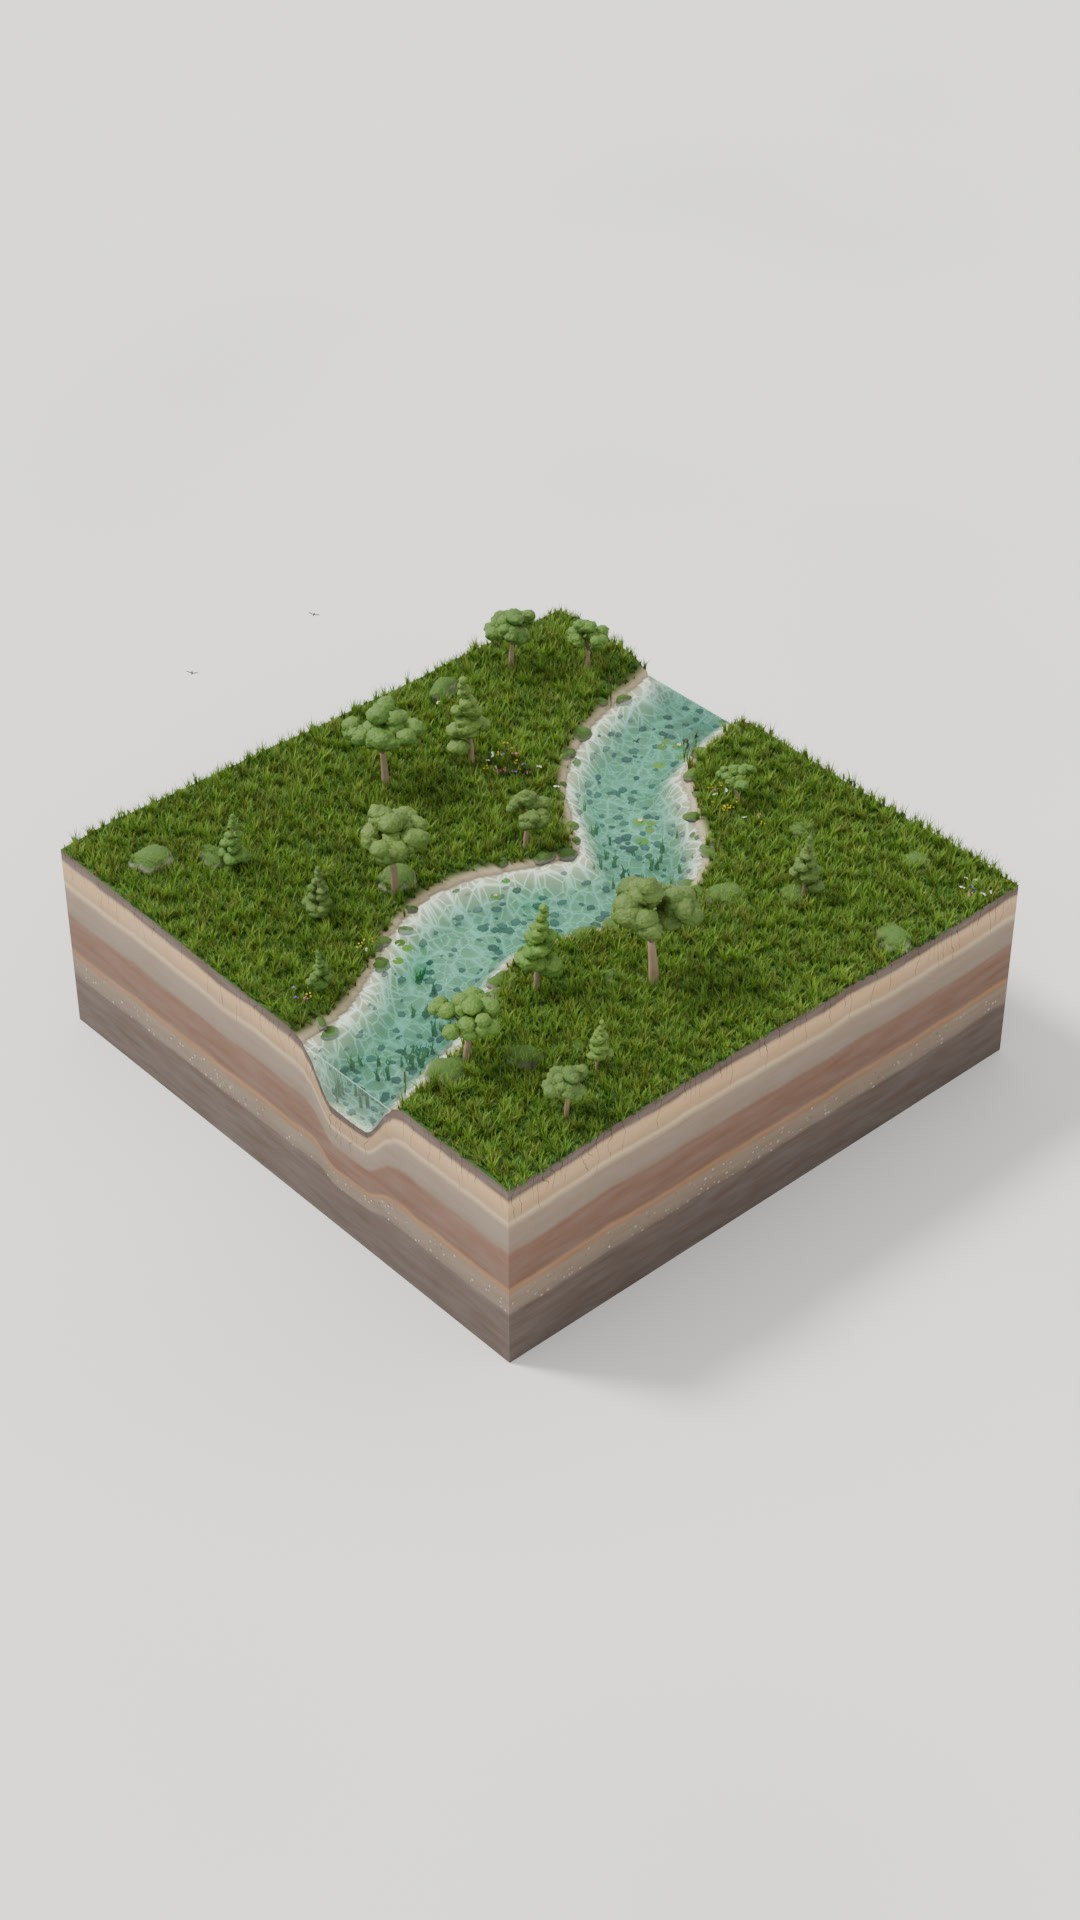
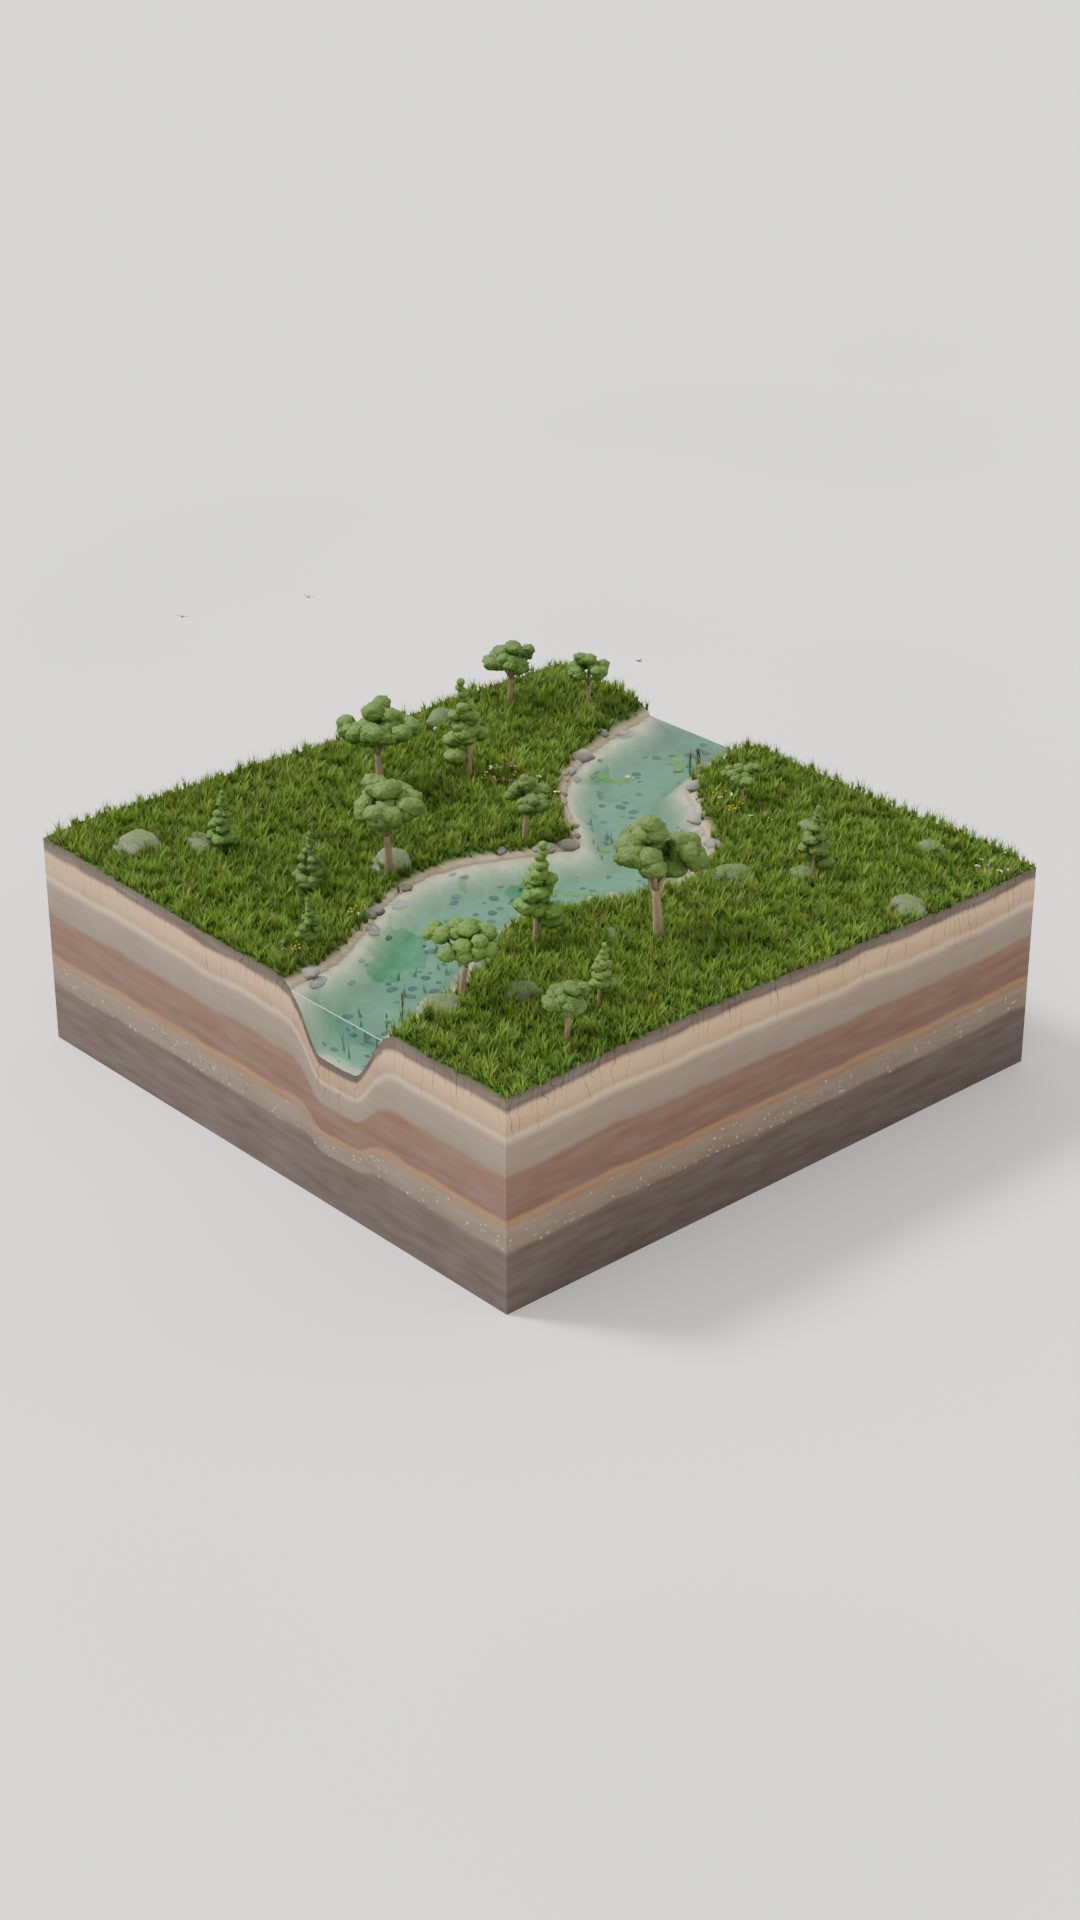
Cutaway board final: B with round trees, A and D at 1080x1920 (lower, fuller 9:16 framing)
Claude-Session: https://claude.ai/code/session_01CmrfyBEQR6D43ePLhNBsAa

Changed region(s): [[0.0306, 0.3125, 0.9778, 0.7188]]

diff --git a/films/styles/cutaway/cinematic/extras.py b/films/styles/cutaway/cinematic/extras.py
@@ -618,7 +618,7 @@ class Eggs:
         self.spot(face, u, z, 3.0 * light / 3.0, out=0.45, up=0.28, size=30, name='ex_spot_ammonite')
         self.items['ammonite'] = (face, u, z)
 
-    def trilobite(self, face, u, z, Lt=0.10, tilt=-0.3, light=3.0):
+    def trilobite(self, face, u, z, Lt=0.17, tilt=-0.3, light=4.0):
         """A trilobite in relief: head shield, segmented three-lobed thorax, tail."""
         kit = self.kit; ns, nt_ = 48, 22; V = []; F = []
         for i in range(ns + 1):
@@ -637,7 +637,7 @@ class Eggs:
         V = np.array(V)
         for side in (-1, 1):   # the eyes
             ev, ef = ell((Lt * 0.36, -Lt * 0.09, side * Lt * 0.17), (0.005, 0.004, 0.005)); V = np.vstack([V, ev]); F += [tuple(np.array(f) + len(V) - len(ev)) for f in ef]
-        stone = mat_pbr(kit, 'ex_trilo', (0.24, 0.20, 0.18), 0.35, coat=0.3)
+        stone = mat_pbr(kit, 'ex_trilo', (0.46, 0.36, 0.28), 0.35, coat=0.4, cavity=0.8)
         self.obj('ex_trilobite', [(V, F, 0)], [stone], face, u, z, 0.0, tilt)
         self.spot(face, u, z, 3.0 * light / 3.0, out=0.45, up=0.28, size=30, name='ex_spot_trilobite')
         self.items['trilobite'] = (face, u, z)
@@ -685,16 +685,16 @@ class Eggs:
         body = self.obj('ex_dino', P, [bone, dark], face, u, z)
         # the skull: lofted sections, jaw slightly open, dark eye socket and window, teeth
         Ls = 0.20 * s; secs = 22; ring = 14; V = []; F = []; JV = []; JF = []
-        def h_top(q): return (0.060 * (1 - 0.66 * q) + 0.010 * math.sin(math.pi * q) + 0.006 * math.exp(-((q - 0.22) / 0.06) ** 2)) * s
+        def h_top(q): return (0.066 * (1 - 0.70 * q) + 0.012 * math.sin(math.pi * q) + 0.010 * math.exp(-((q - 0.24) / 0.05) ** 2)) * s
         def h_bot(q): return (-0.032 * (1 - 0.55 * q)) * s
-        def wid(q): return (0.026 * (1 - 0.55 * q)) * s
+        def wid(q): return (0.030 * (1 - 0.6 * q) * (1 + 0.15 * math.exp(-((q - 0.15) / 0.1) ** 2))) * s
         for i in range(secs + 1):
             q = i / secs; xx = -q * Ls; zt, zb, ww = h_top(q), h_bot(q), wid(q); zc = (zt + zb) / 2; rz = (zt - zb) / 2
-            rnd_ = math.sqrt(max(0.05, min(1.0, q / 0.06))) if q < 0.06 else 1.0
+            rnd_ = math.sqrt(max(0.05, min(1.0, q / 0.12))) if q < 0.12 else 1.0
             for j in range(ring):
                 a = 2 * math.pi * j / ring; V.append((xx, y0 + ww * rnd_ * math.cos(a), zc + rz * rnd_ * math.sin(a)))
             if i < secs and 0.04 < q < 0.96:
-                jt = zb + 0.002 * s; jb = jt - (0.040 * (1 - 0.45 * q)) * s; jc = (jt + jb) / 2; jr = (jt - jb) / 2
+                jt = zb + 0.002 * s; jb = jt - (0.040 * (1 - 0.62 * q)) * s; jc = (jt + jb) / 2; jr = (jt - jb) / 2
                 for j in range(ring): a = 2 * math.pi * j / ring; JV.append((xx, y0 + ww * 0.85 * math.cos(a), jc + jr * math.sin(a)))
         for i in range(secs):
             for j in range(ring): a = i * ring + j; b_ = i * ring + (j + 1) % ring; F.append((a, b_, b_ + ring, a + ring))
@@ -708,6 +708,9 @@ class Eggs:
         for q, zz, rr in ((0.26, 0.55, 0.012), (0.52, 0.35, 0.011), (0.10, 0.35, 0.007)):   # eye socket, antorbital window, temporal window
             c = np.array([-q * Ls, y0 - wid(q) * 0.97, (h_top(q) + h_bot(q)) / 2 + zz * (h_top(q) - h_bot(q)) / 2 * 0.6])
             ev, ef = ell(c, (rr * s * (1.4 if q > 0.4 else 1.0), 0.0016, rr * s)); SP.append((ev, ef, 1))
+        for q in np.linspace(0.15, 0.85, 8):                 # bumps along the top of the snout
+            SP.append((*ell((-q * Ls, y0 - wid(q) * 0.3, h_top(q) * 0.97), (0.006 * s, 0.006 * s, 0.004 * s)), 0))
+        SP.append((*ell((-0.92 * Ls, y0 - wid(0.92) * 0.9, (h_top(0.92) + h_bot(0.92)) / 2 + 0.004 * s), (0.005 * s, 0.0016, 0.0035 * s)), 1))   # nostril
         for q in np.linspace(0.3, 0.95, 11):                 # teeth
             b0 = np.array([-q * Ls, y0 - wid(q) * 0.7, h_bot(q) + 0.002 * s]); tv, tf = cone(b0, b0 + np.array([-0.002, 0, -0.011 * s]), 0.0025 * s, 0.0002, 6); SP.append((tv, tf, 2))
         sk = part(kit, 'ex_dino_skull', SP, [bone, dark, tooth])
@@ -716,12 +719,12 @@ class Eggs:
         sk.parent = body; sk.location = (base[0], 0.0, base[1]); sk.rotation_euler = (0.0, math.radians(22), 0.0); sk.scale = (1.25, 1.0, 1.25)
         self.spot(face, u + 0.05, z + 0.02, 5.0 * light / 5.0, out=0.75, up=0.45, size=46, name='ex_spot_dino')
         self.spot(face, u + 0.20 * s, z + 0.28 * s, 0.8 * light / 5.0, out=0.32, up=0.16, size=30, side=0.08, name='ex_spot_skull')
-        self.items['dino'] = (face, u, z); self.items['skull'] = (face, u + 0.12 * s, z + 0.28 * s)
+        self.items['dino'] = (face, u, z); self.items['skull'] = (face, u + 0.10 * s, z + 0.31 * s)
 
-    def gold(self, face, pts, width=0.022, nuggets=9, light=3.0):
+    def gold(self, face, pts, width=0.014, nuggets=22, light=3.0):
         """A glittering gold-bearing quartz vein across the deep rock, with nuggets standing proud."""
         kit = self.kit; P = cw.catmull(pts, 60); rng = np.random.default_rng(31)
-        quartz = mat_pbr(kit, 'ex_quartz', (0.62, 0.60, 0.56), 0.35, coat=0.3, flecks=3.0)
+        quartz = mat_pbr(kit, 'ex_quartz', (0.52, 0.50, 0.46), 0.3, coat=0.5, flecks=8.0)
         gold = mat_pbr(kit, 'ex_gold', (1.0, 0.74, 0.30), 0.25, metallic=1.0, bump=0.25, bump_scale=900.0)
         T = np.gradient(P, axis=0); T /= np.linalg.norm(T, axis=1)[:, None]; N = np.stack([-T[:, 1], T[:, 0]], 1)
         w = width * (0.6 + 0.8 * np.abs(np.sin(np.linspace(0, 9, len(P))) * np.cos(np.linspace(0, 4, len(P)))))
@@ -732,8 +735,8 @@ class Eggs:
         A = [(V, F, 0)]
         for k in range(nuggets):
             i = int(rng.integers(3, len(P) - 3)); c = np.array([P[i, 0] + rng.normal(0, 0.006), 0.0, P[i, 1] + rng.normal(0, 0.004)])
-            r = rng.uniform(0.006, 0.014); nv, nf = ell(c, (r * 1.3, r * 0.8, r), 2, 0.35, k); A.append((nv, nf, 1))
-        for k in range(120):    # fine gold specks along the vein
+            r = rng.uniform(0.008, 0.02); nv, nf = ell(c, (r * 1.3, r * 0.8, r), 2, 0.35, k); A.append((nv, nf, 1))
+        for k in range(260):    # fine gold specks along the vein
             i = int(rng.integers(0, len(P))); c = np.array([P[i, 0] + rng.normal(0, w[i] * 0.6), -0.002, P[i, 1] + rng.normal(0, w[i] * 0.6)])
             nv, nf = ell(c, (0.0022, 0.001, 0.0018), 1); A.append((nv, nf, 1))
         self.obj('ex_goldvein', A, [quartz, gold], face, 0.0, 0.0)

diff --git a/films/styles/cutaway/cinematic/blender.py b/films/styles/cutaway/cinematic/blender.py
@@ -66,7 +66,7 @@ def build(bpy, ctx):
         cw.lamp(kit, land, x, y, name=f'cw_lamp{k}')
 
     rig = ex.cine_light(kit, land, SUN_AZ, SUN_EL, sun=6.0, fill=0.9, amb=0.24)
-    ex.atmosphere(kit, land, haze=float(os.environ.get('EX_HAZE', 0.12)), fog=float(os.environ.get('EX_FOG', 7.0)), fog_top=float(os.environ.get('EX_FOGTOP', 0.16)), aniso=0.7)
+    ex.atmosphere(kit, land, haze=float(os.environ.get('EX_HAZE', 0.12)), fog=float(os.environ.get('EX_FOG', 7.0)), fog_top=float(os.environ.get('EX_FOGTOP', 0.16)), ceiling=float(os.environ.get('EX_CEIL', 1.6)), aniso=0.7)
     ex.gobo(kit, land, rig['sun_dir'])
     # the hero tree: the big round tree by the mill sits right in front of the sun from the hero camera (rays round its crown)
     T = np.asarray(land.trees); k = int(np.argmin(np.hypot(T[:, 0] - 1.33, T[:, 1] + 0.88))); gz = float(land.height(T[k:k + 1, 0], T[k:k + 1, 1])[0])
@@ -126,12 +126,12 @@ def shot_pose(S, name, u):
         e = ex.ease(u); pos = ex.lerp((2.30, -2.50, 0.17), (2.18, -2.42, 0.16), e); tgt = (-0.8, -1.45, -0.20)
         return pos, tgt, 28.0, float(np.linalg.norm(np.array(pos) - np.array((0.66, -1.85, 0.0)))), 4.0, 0.0
     if name == 'crane':                  # vertical crane down the cut face, treetops to the deepest layer
-        e = ex.ease5(u); tz = 0.32 + (-1.22 - 0.32) * e; el = math.radians(20 - 19 * e); D = 2.45
+        e = ex.ease5(u); tz = 0.32 + (-1.10 - 0.32) * e; el = math.radians(20 - 19 * e); D = 2.45
         tgt = (-0.52, -2.0, tz); pos = (-0.52 + 0.30, -2.0 - D, tz + D * math.tan(el))
         return pos, tgt, 40.0, D / math.cos(el), 5.6, 0.0
     if name == 'macro':                  # close on the skull, a slow push
         f, uu, zz = eggs.items['skull']; c = eggs.faces[f].world(uu - 0.04, zz - 0.01, 0.0)
-        k = 1.0 - 0.10 * ex.ease(u); off = np.array([0.36, -0.68, 0.10]) * k
+        k = 1.0 - 0.10 * ex.ease(u); off = np.array([0.50, -0.92, 0.13]) * k
         return tuple(c + off), tuple(c), 55.0, float(np.linalg.norm(off)), 4.0, 0.0
     # hero: low three-quarter from the +X side, the sun behind the block, a slow arc
     e = ex.ease(u); az = math.radians(-46 + 8 * e); el = math.radians(3.0); D = 4.6; tgt = np.array((0.15, -0.15, -0.36))
